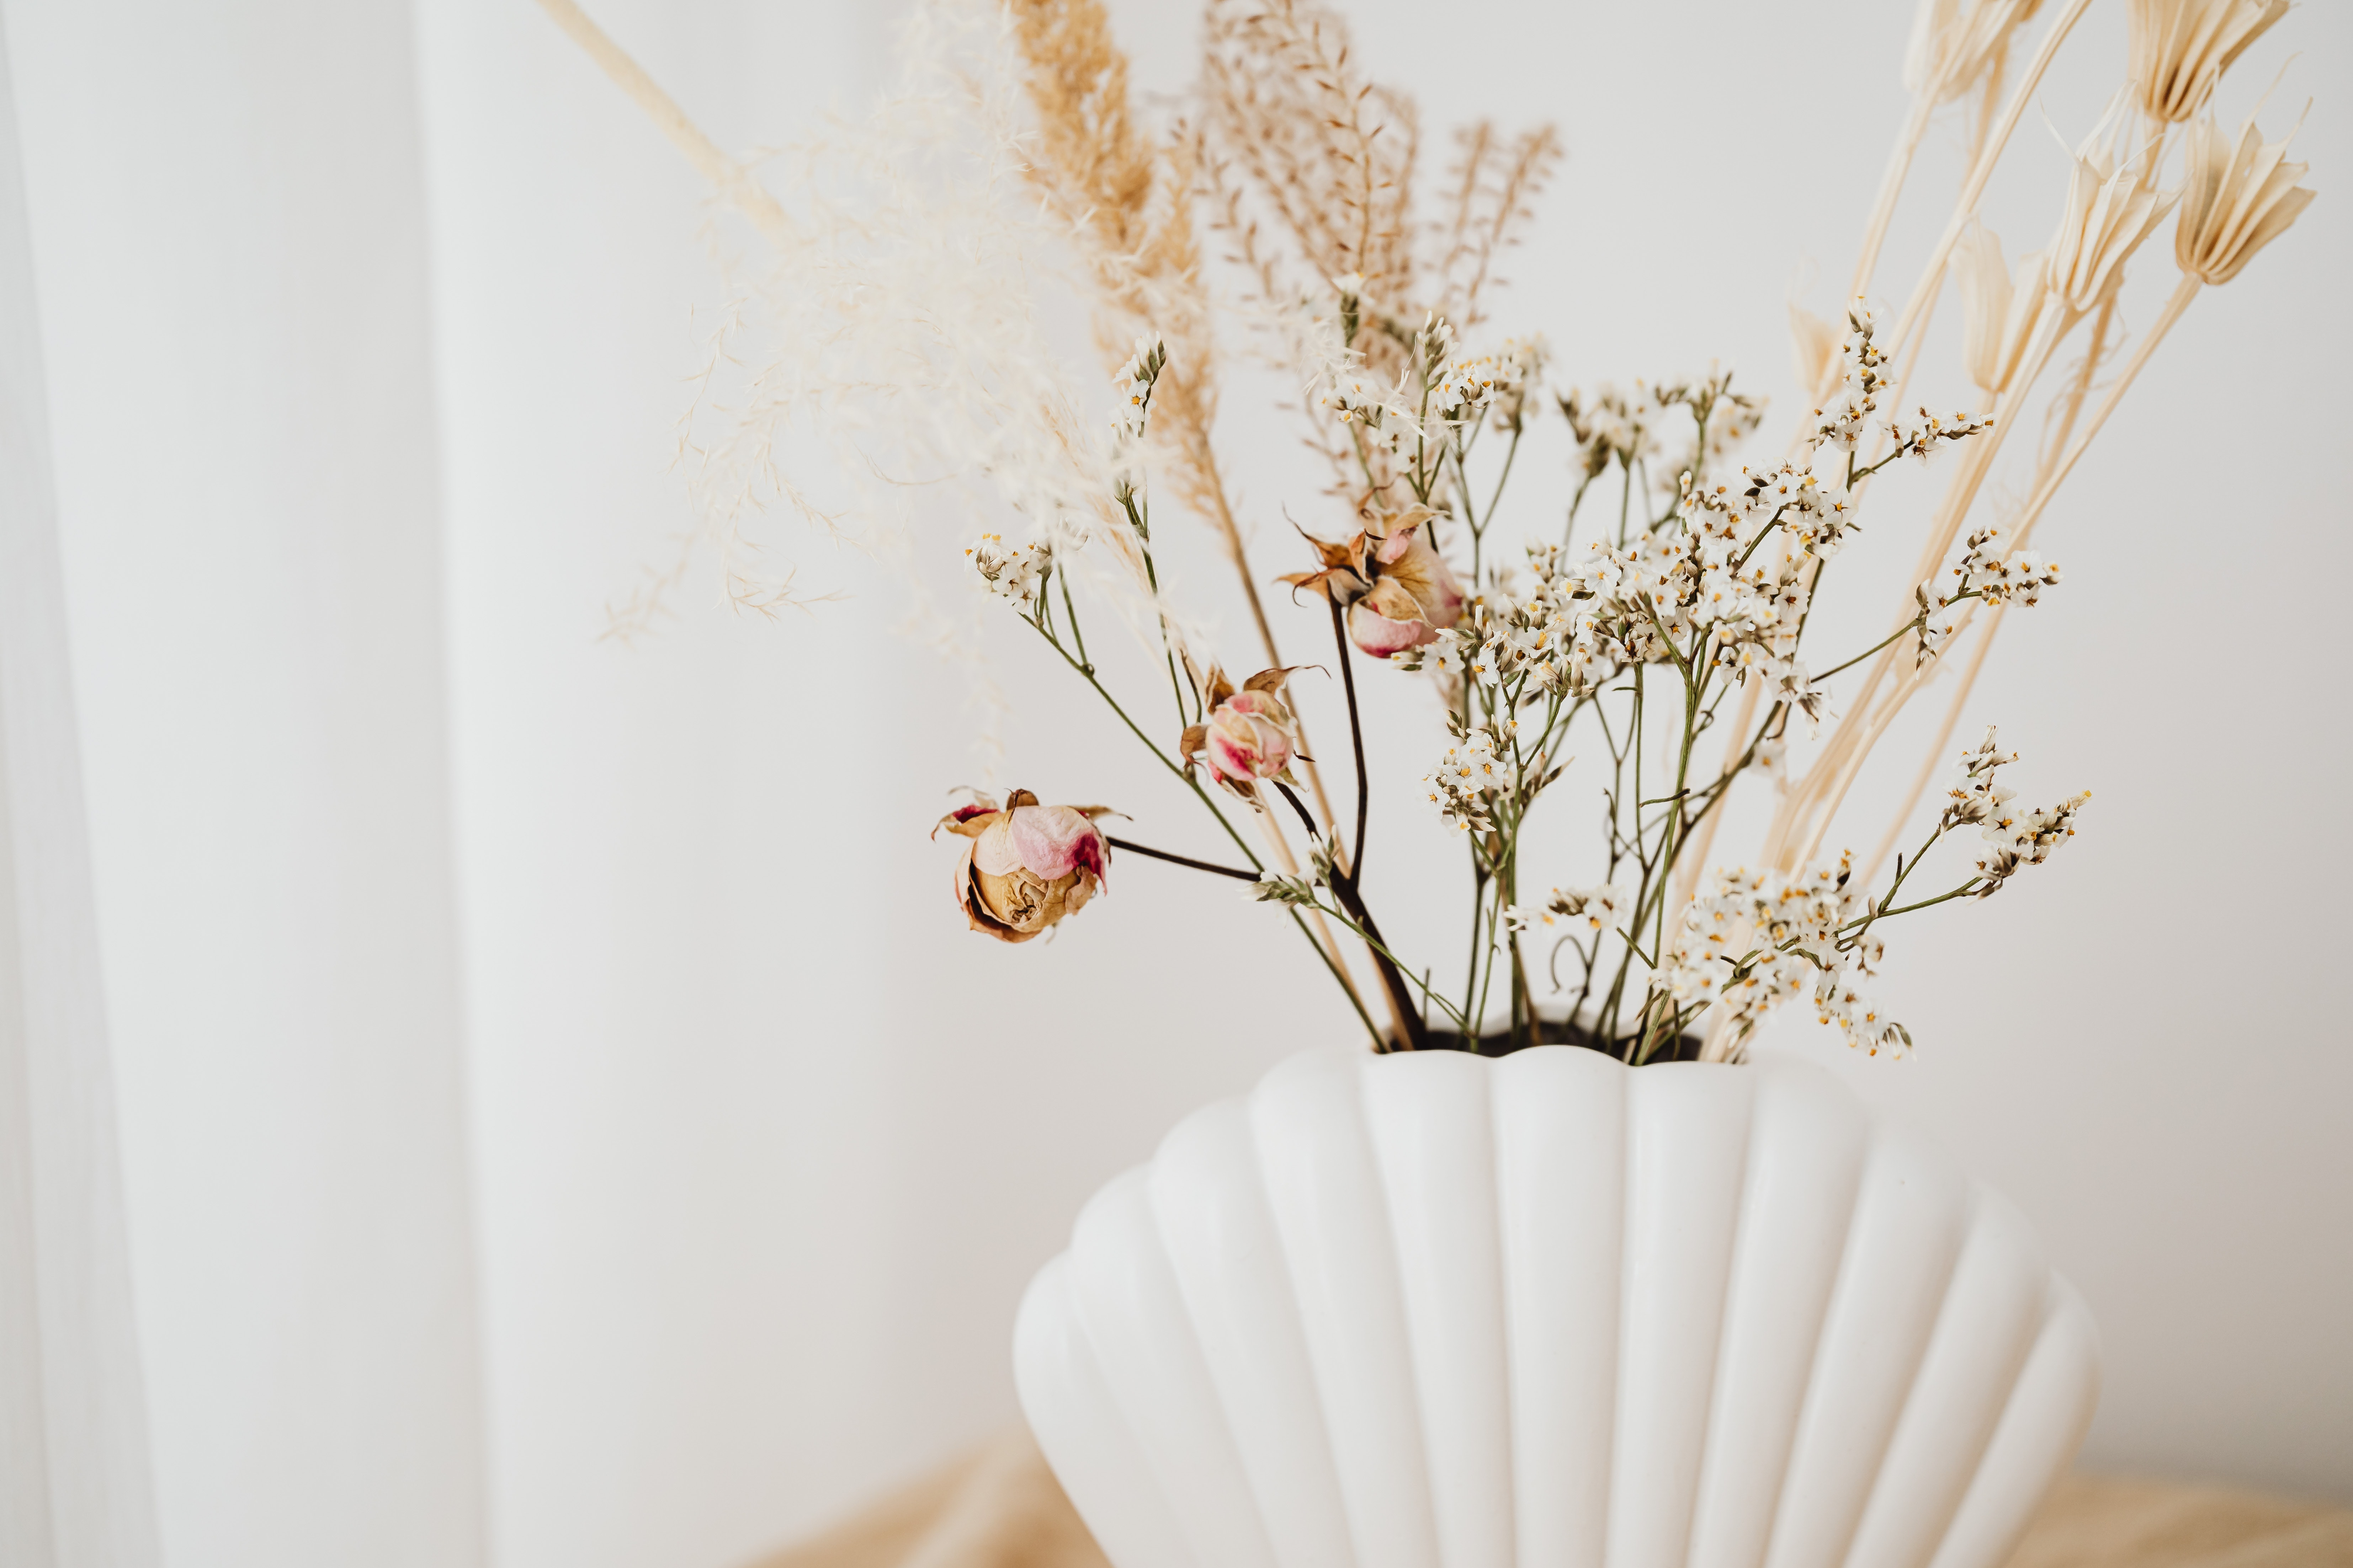
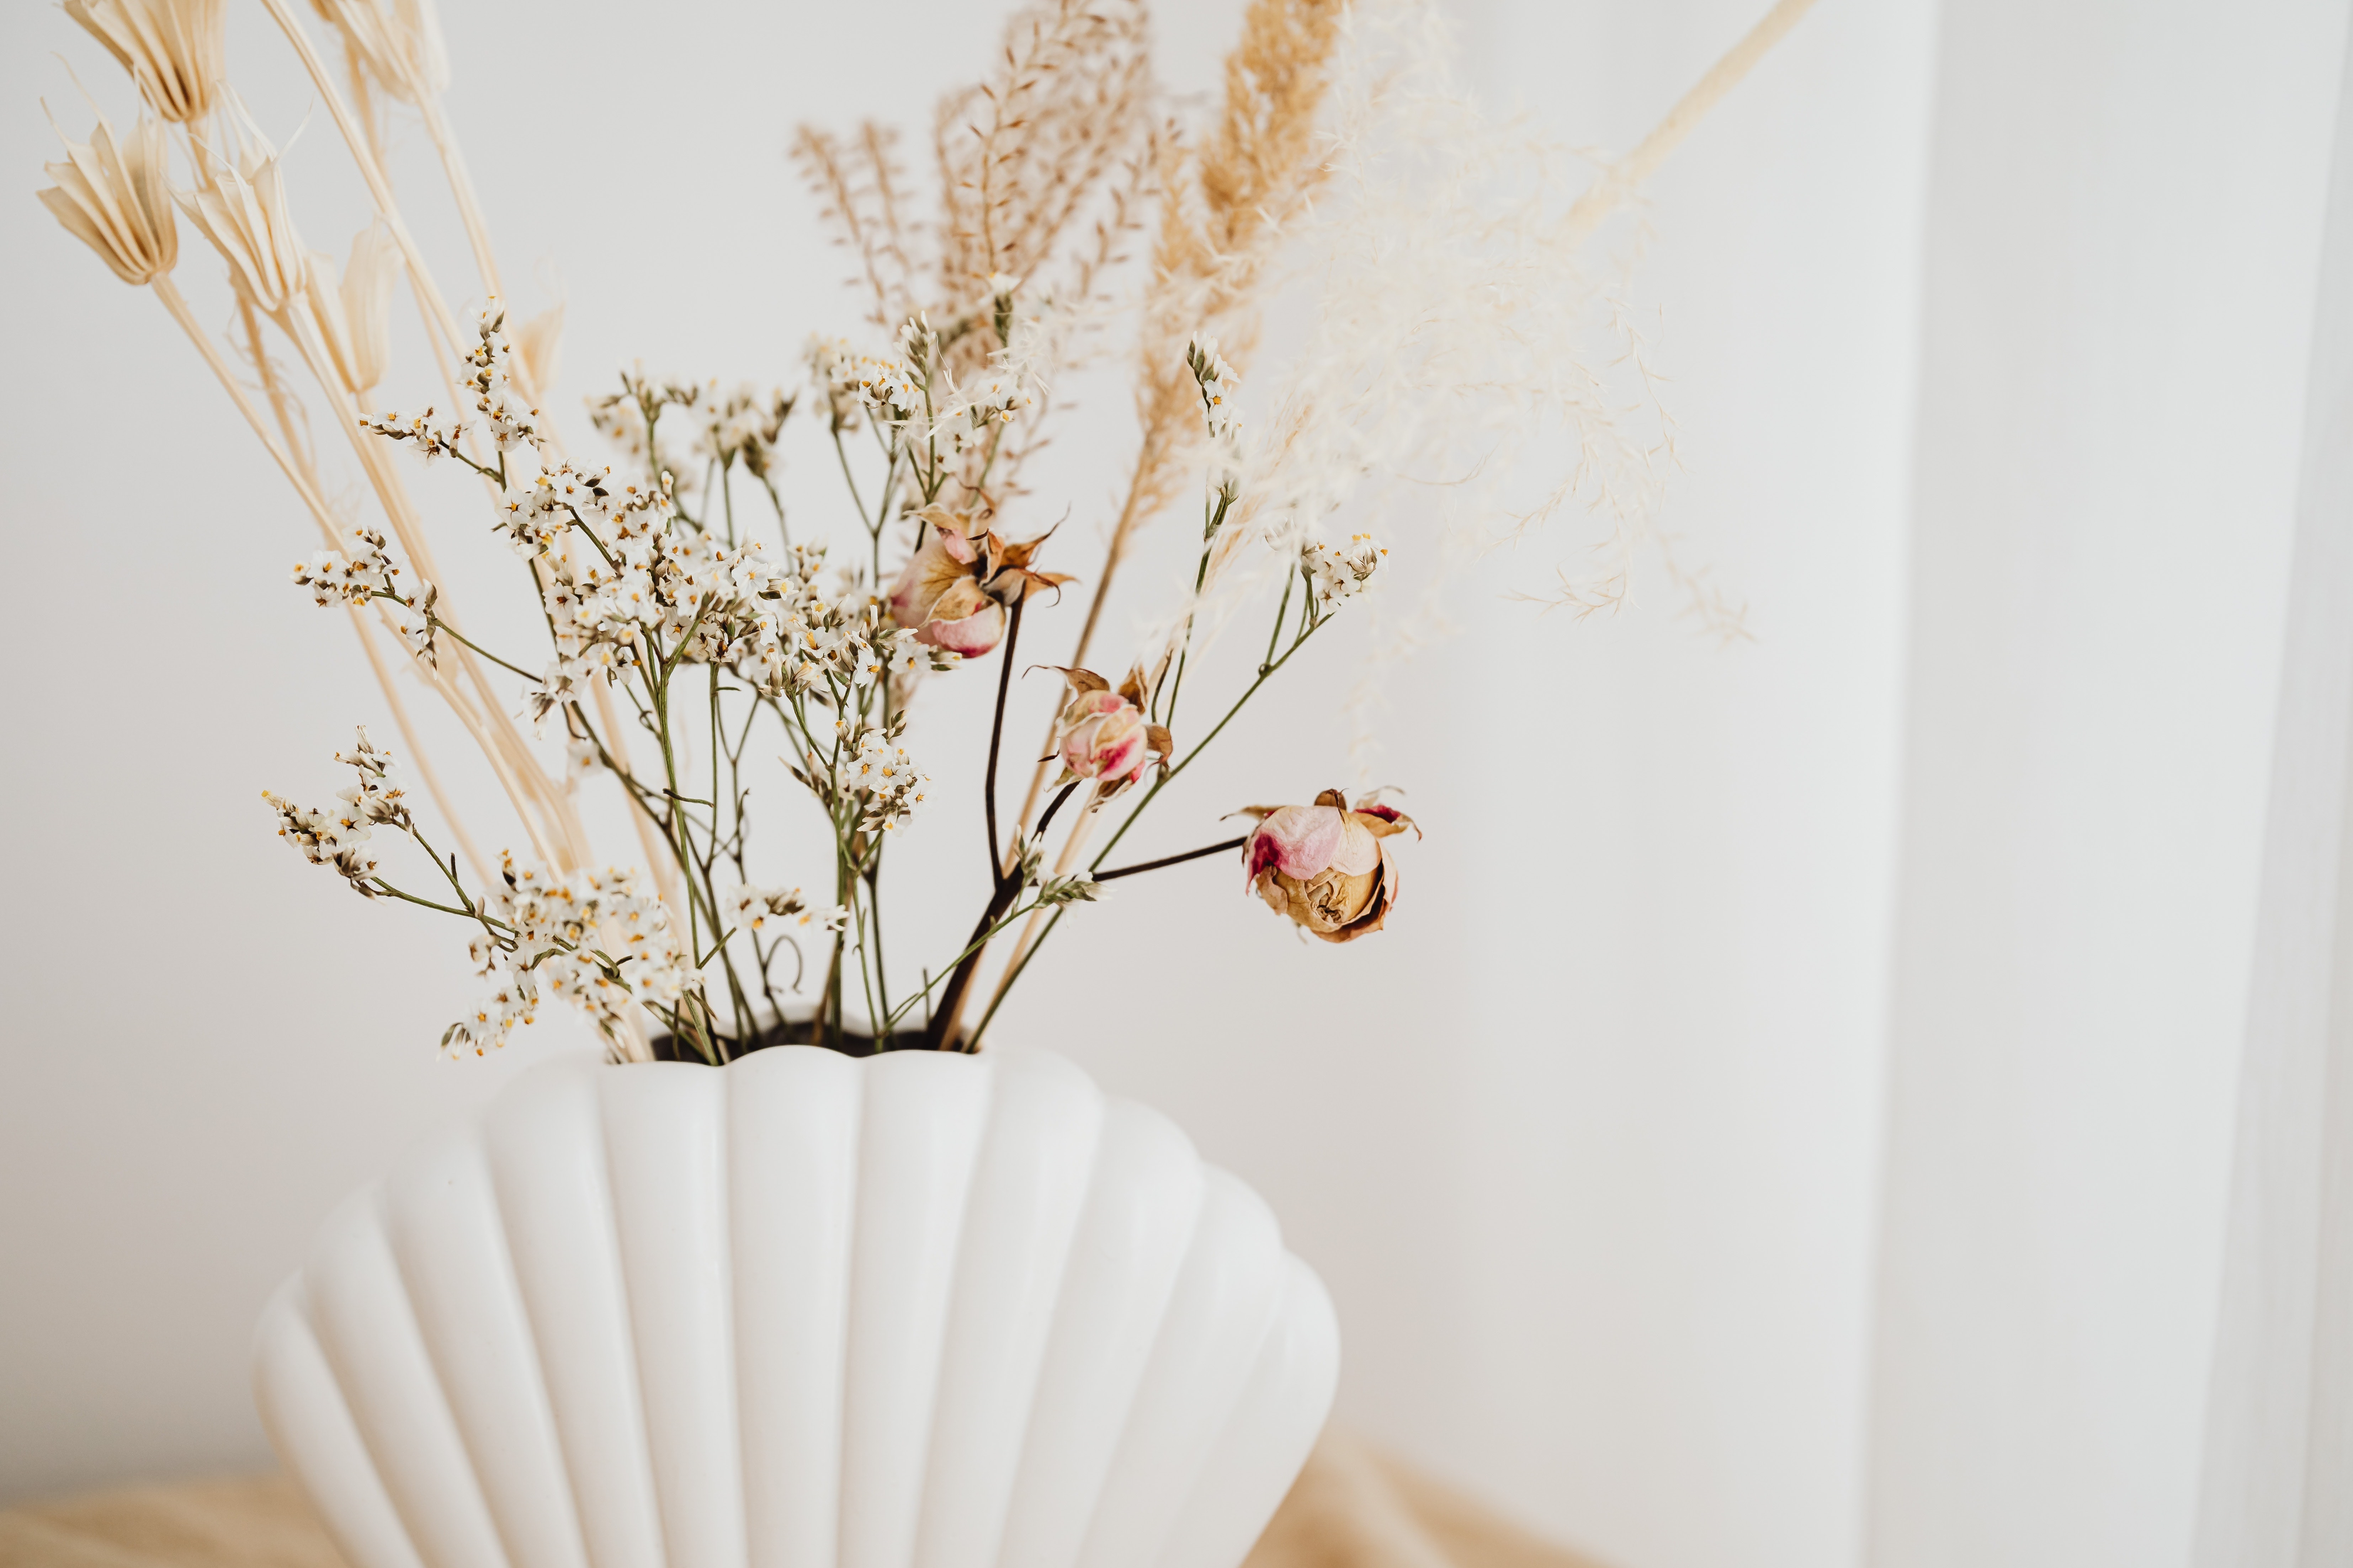
change about photo

diff --git a/styles/About.module.css b/styles/About.module.css
@@ -11,7 +11,7 @@
     z-index: -1;
     object-fit: cover;
     position: absolute;
-    opacity: 0.3;
+    opacity: 0.5;
 }
 
 #start-info {
@@ -25,7 +25,7 @@
 }
 
 #start-info p {
-  color: #89d0ccd0;
+  color: black;
   display: block;
   font-size: 5vw;
   font-family: 'Playfair Display', serif;
@@ -98,7 +98,7 @@
     justify-content: center;
     flex-direction: column;
     height: 100vh;
-    background-color: #89d0cd23;
+    background-color: #e8d6c2db;
 }
 
 #image img {

diff --git a/pages/about.js b/pages/about.js
@@ -13,7 +13,7 @@ export default function About(props) {
         <NavBar></NavBar>
         <div id={style.start}>
                 <img
-                    src="/images/gallery.jpg" 
+                    src="/images/about.jpg" 
                 />
                 <div id={style["start-info"]}>
                     <p>

diff --git a/styles/Gallery.module.css b/styles/Gallery.module.css
@@ -24,7 +24,7 @@
     z-index: -1;
     object-fit: cover;
     position: absolute;
-    opacity: 0.3;
+    opacity: 0.5;
 }
 
 #start-info {
